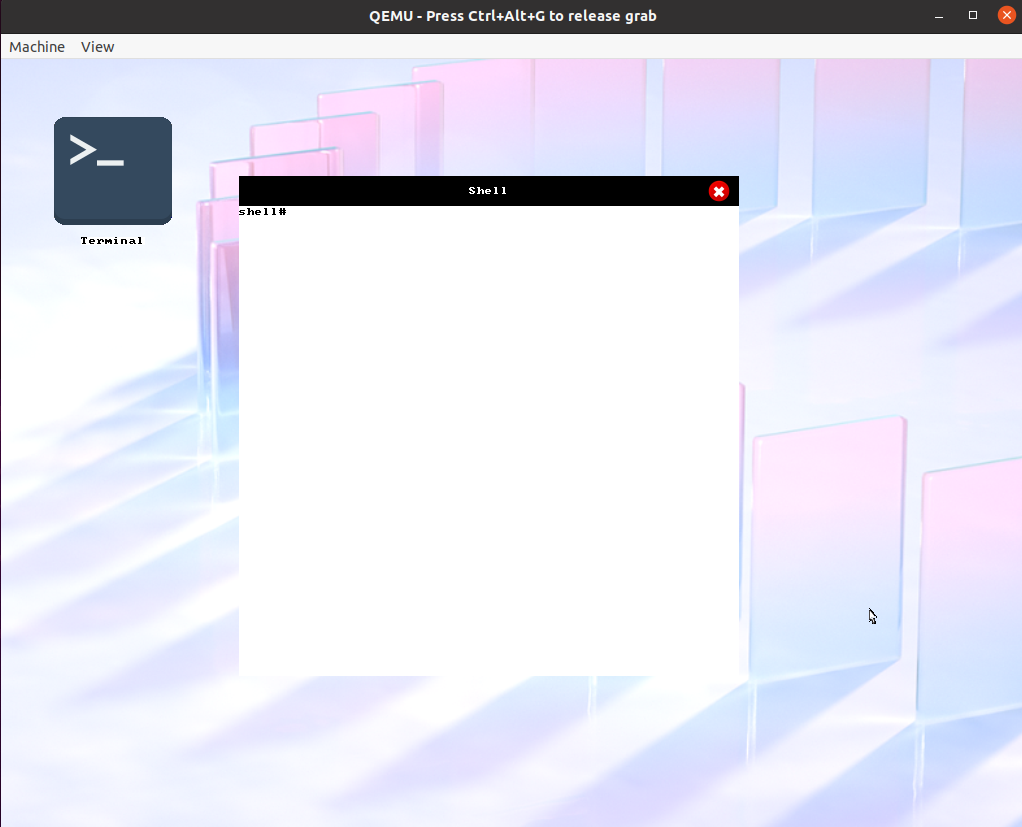
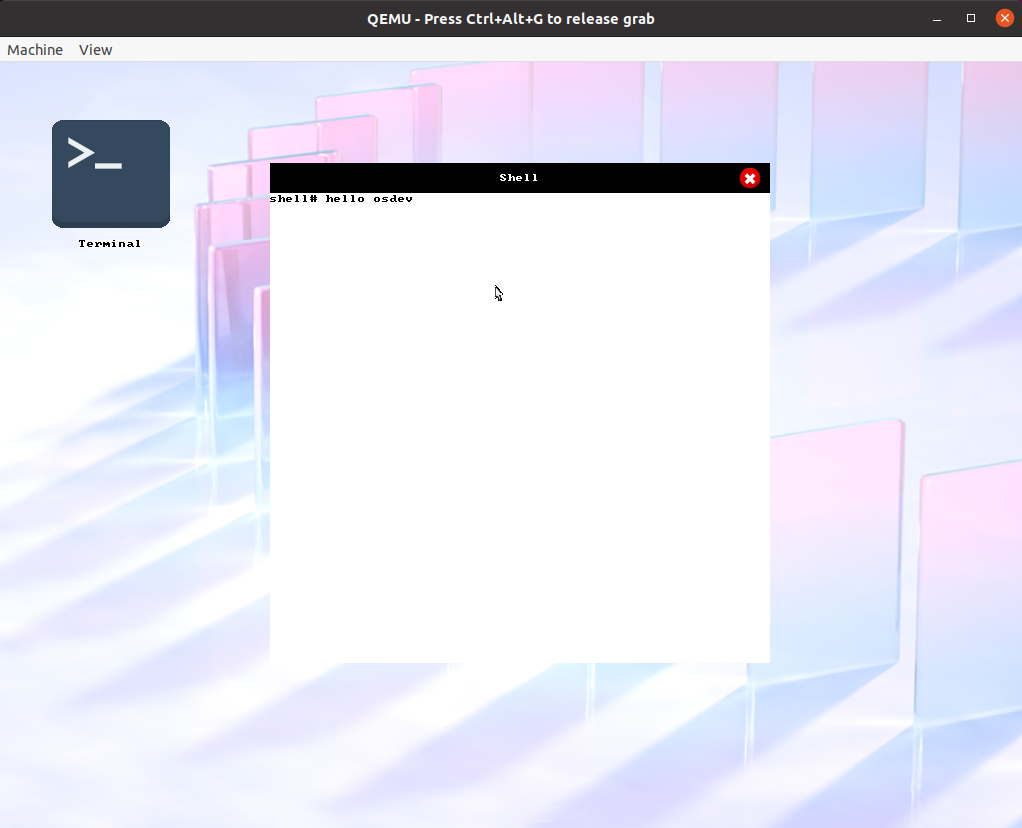
update screenshot

diff --git a/README.md b/README.md
@@ -2,7 +2,8 @@
 
 <p>A 64bit operating system kernel with graphical user interface.</p>
 
-![screenshot](./assets/screen01.png)
+<img src="assets/screen01.png" alt="screenshot" width="20%"/>
+<img src="assets/screen02.png" alt="terminal-log" width="20%"/>
 
 ## Documentation
 TODO
